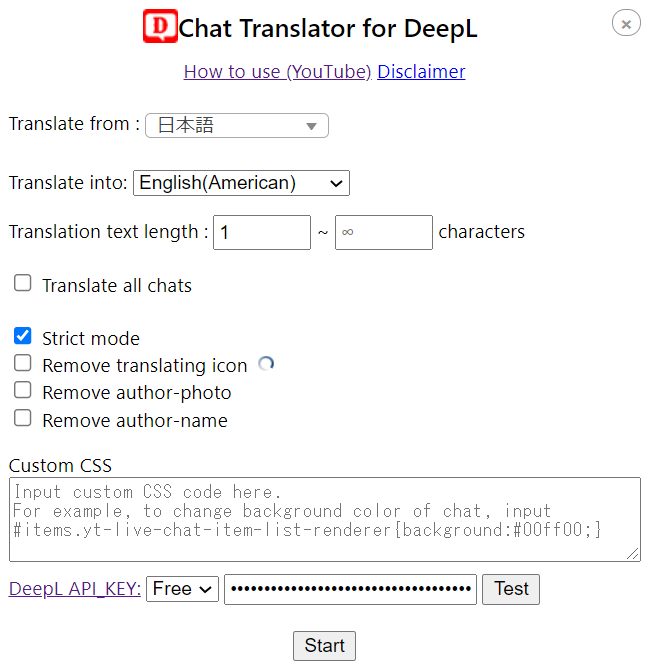
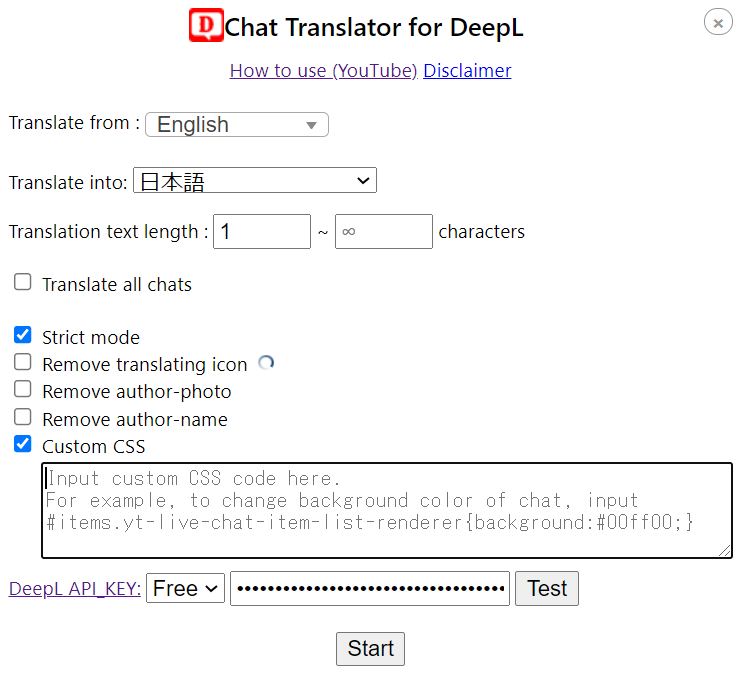
update: CSSをsyncでなくlocalに保存

diff --git a/options.js b/options.js
@@ -81,6 +81,13 @@ function save_options(input) {
       } else {
         maxlen = document.querySelector("#maxlength").value;
       }
+      //save CSS data on local storage
+      chrome.storage.local.set(
+        {
+          addedCSS: document.querySelector("#addedCSS").value,
+        },
+        function () {}
+      );
       chrome.storage.sync.set(
         {
           target: document.querySelector("#target").value,
@@ -92,9 +99,9 @@ function save_options(input) {
           rmAuthorPhotoFlag:
             document.querySelector("#rmAuthorPhotoFlag").checked,
           rmAuthorNameFlag: document.querySelector("#rmAuthorNameFlag").checked,
-          addedCSS: document.querySelector("#addedCSS").value,
           minlength: minlen,
           maxlength: maxlen,
+          addedCSSFlag: document.querySelector("#addedCSSFlag").checked,
           freeflag: document.querySelector("#freeflag").value,
         },
         function () {
@@ -121,6 +128,7 @@ function save_options(input) {
                   addedCSS: document.querySelector("#addedCSS").value,
                   minlength: minlen,
                   maxlength: maxlen,
+                  addedCSSFlag: document.querySelector("#addedCSSFlag").checked,
                   freeflag: document.querySelector("#freeflag").value,
                 },
                 function (res) {
@@ -144,6 +152,15 @@ function save_options(input) {
 
 function restore_options() {
   chrome.tabs.query({ active: true, currentWindow: true }, function (tabs) {
+    // CSS data is saved on  local storage
+    chrome.storage.local.get(
+      {
+        addedCSS: "",
+      },
+      function (localItems) {
+        document.querySelector("#addedCSS").value = localItems.addedCSS;
+      }
+    );
     chrome.storage.sync.get(
       {
         target: "JA",
@@ -154,9 +171,9 @@ function restore_options() {
         rmLoadingFlag: false,
         rmAuthorPhotoFlag: false,
         rmAuthorNameFlag: false,
-        addedCSS: "",
         minlength: 1,
         maxlength: "",
+        addedCSSFlag: true,
         freeflag: "Free",
       },
       function (items) {
@@ -214,9 +231,10 @@ function restore_options() {
               items.rmAuthorPhotoFlag;
             document.querySelector("#rmAuthorNameFlag").checked =
               items.rmAuthorNameFlag;
-            document.querySelector("#addedCSS").value = items.addedCSS;
             document.querySelector("#minlength").value = items.minlength;
             document.querySelector("#maxlength").value = items.maxlength;
+            document.querySelector("#addedCSSFlag").checked =
+              items.addedCSSFlag;
             document.querySelector("#freeflag").value = items.freeflag;
             save_options(true);
           }
@@ -395,7 +413,4 @@ document.querySelector("#save").addEventListener("click", function () {
 document.querySelector("#apitest").addEventListener("click", api_test);
 $(function () {
   $("#translang").multipleSelect();
-});
-document.querySelector("#close").addEventListener("click", function () {
-  window.close();
 });

diff --git a/popup.js b/popup.js
@@ -81,6 +81,13 @@ function save_options(input) {
       } else {
         maxlen = document.querySelector("#maxlength").value;
       }
+      //CSS data is saved on local storage
+      chrome.storage.local.set(
+        {
+          addedCSS: document.querySelector("#addedCSS").value,
+        },
+        function () {}
+      );
       chrome.storage.sync.set(
         {
           target: document.querySelector("#target").value,
@@ -92,9 +99,9 @@ function save_options(input) {
           rmAuthorPhotoFlag:
             document.querySelector("#rmAuthorPhotoFlag").checked,
           rmAuthorNameFlag: document.querySelector("#rmAuthorNameFlag").checked,
-          addedCSS: document.querySelector("#addedCSS").value,
           minlength: minlen,
           maxlength: maxlen,
+          addedCSSFlag: document.querySelector("#addedCSSFlag").checked,
           freeflag: document.querySelector("#freeflag").value,
         },
         function () {
@@ -121,6 +128,7 @@ function save_options(input) {
                   addedCSS: document.querySelector("#addedCSS").value,
                   minlength: minlen,
                   maxlength: maxlen,
+                  addedCSSFlag: document.querySelector("#addedCSSFlag").checked,
                   freeflag: document.querySelector("#freeflag").value,
                 },
                 function (res) {
@@ -171,6 +179,15 @@ function restore_options() {
         if (res_translatingflag) {
           document.querySelector("#save").textContent = "Stop";
         }
+        // CSS data is saved on  local storage
+        chrome.storage.local.get(
+          {
+            addedCSS: "",
+          },
+          function (localItems) {
+            document.querySelector("#addedCSS").value = localItems.addedCSS;
+          }
+        );
         chrome.storage.sync.get(
           {
             target: "JA",
@@ -181,9 +198,9 @@ function restore_options() {
             rmLoadingFlag: false,
             rmAuthorPhotoFlag: false,
             rmAuthorNameFlag: false,
-            addedCSS: "",
             minlength: 1,
             maxlength: "",
+            addedCSSFlag: true,
             freeflag: "Free",
           },
           function (items) {
@@ -244,9 +261,10 @@ function restore_options() {
                   items.rmAuthorPhotoFlag;
                 document.querySelector("#rmAuthorNameFlag").checked =
                   items.rmAuthorNameFlag;
-                document.querySelector("#addedCSS").value = items.addedCSS;
                 document.querySelector("#minlength").value = items.minlength;
                 document.querySelector("#maxlength").value = items.maxlength;
+                document.querySelector("#addedCSSFlag").checked =
+                  items.addedCSSFlag;
                 document.querySelector("#freeflag").value = items.freeflag;
                 save_options(true);
               }

diff --git a/options.html b/options.html
@@ -8,8 +8,6 @@
     </head>
 
     <body style="min-width: 330px;">
-        <div id="close" title="close window">×</div>    
-        <div id="title"><img src="../icon24.png"/>Chat Translator for DeepL</div>
         <div style="text-align: center;">
             <a href="https://www.youtube.com/watch?v=8nhYxoAYdio" target="_blank">How to use (YouTube)</a>
             <a href="https://github.com/T3aHat/Chat_Translator_for_DeepL#%E5%85%8D%E8%B2%AC%E4%BA%8B%E9%A0%85disclaimer" target="_blank">Disclaimer</a>
@@ -92,7 +90,7 @@
             <div ><label><input type="checkbox" id="rmLoadingFlag"> Remove translating icon <img src="../loading.gif" width="12" height="12" style="margin-left:3px"/></label></div>            
             <div ><label><input type="checkbox" id="rmAuthorPhotoFlag"> Remove author-photo</label></div>
             <div ><label><input type="checkbox" id="rmAuthorNameFlag"> Remove author-name</label></div>
-            <p id="addedCSStext">Custom CSS</p>
+            <div ><label><input type="checkbox" id="addedCSSFlag"> Custom CSS</label></div>
             <textarea id="addedCSS" rows="4" cols="60" placeholder="Input custom CSS code here.&#13For example, to change background color of chat, input&#13#items.yt-live-chat-item-list-renderer{background:#00ff00;}"></textarea>    
         </span>
         

diff --git a/popup.html b/popup.html
@@ -92,7 +92,7 @@
             <div ><label><input type="checkbox" id="rmLoadingFlag"> Remove translating icon <img src="../loading.gif" width="12" height="12" style="margin-left:3px"/></label></div>            
             <div ><label><input type="checkbox" id="rmAuthorPhotoFlag"> Remove author-photo</label></div>
             <div ><label><input type="checkbox" id="rmAuthorNameFlag"> Remove author-name</label></div>
-            <p id="addedCSStext">Custom CSS</p>
+            <div ><label><input type="checkbox" id="addedCSSFlag"> Custom CSS</label></div>
             <textarea id="addedCSS" rows="4" cols="60" placeholder="Input custom CSS code here.&#13For example, to change background color of chat, input&#13#items.yt-live-chat-item-list-renderer{background:#00ff00;}"></textarea>    
         </span>
         

diff --git a/chat-translator.js b/chat-translator.js
@@ -53,11 +53,17 @@ function change_settings(request) {
   if (request.rmAuthorNameFlag) {
     addedCSS += "\n#author-name.yt-live-chat-author-chip{display:none;}";
   }
-  a = document.createElement("style");
-  a.type = "text/css";
-  a.id = "chatransAddedCSS";
-  a.textContent = addedCSS;
-  document.head.appendChild(a);
+  if (request.addedCSSFlag) {
+    a = document.createElement("style");
+    a.type = "text/css";
+    a.id = "chatransAddedCSS";
+    a.textContent = addedCSS;
+    document.head.appendChild(a);
+  } else {
+    try {
+      document.querySelector("#chatransAddedCSS").remove;
+    } catch {}
+  }
   if (!request.input) {
     if (translatingflag) {
       disconnectObserver();

diff --git a/style.css b/style.css
@@ -38,7 +38,9 @@ label {
 #addedCSS {
   resize: vertical;
   max-width: 100%;
+  margin-top: 3px;
   margin-bottom: 5px;
+  margin-left: 1.25rem;
 }
 #minlength,
 #maxlength {
@@ -49,9 +51,6 @@ label {
 .ms-choice,
 #target {
   height: 1rem;
-}
-#addedCSStext {
-  margin-bottom: 0;
 }
 #apitestm {
   text-align: center;

diff --git a/background.js b/background.js
@@ -10,6 +10,7 @@ chrome.runtime.onInstalled.addListener(function (details) {
       rmLoadingFlag: false,
       rmAuthorPhotoFlag: false,
       rmAuthorNameFlag: false,
+      addedCSSFlag: true,
       addedCSS: "",
       minlength: 1,
       maxlength: "",

diff --git a/README.md b/README.md
@@ -4,7 +4,7 @@
 
 # Install from Chrome Web Store
 
-https://chrome.google.com/webstore/detail/chat-translator-for-deepl/fbmkdedikbcbkkeaofpenfncppepfnlo
+<a href="https://chrome.google.com/webstore/detail/chat-translator-for-deepl/fbmkdedikbcbkkeaofpenfncppepfnlo" target="_blank" rel="noopener noreferrer"><img src="https://storage.googleapis.com/chrome-gcs-uploader.appspot.com/image/WlD8wC6g8khYWPJUsQceQkhXSlv1/HRs9MPufa1J1h5glNhut.png" alt="ChromeWebStore" ></a>
 
 # Install from GitHub
 
@@ -33,7 +33,7 @@ To use this extension, please sign in to Chrome and sync turns on. If you do not
 
 ## Translate from
 
-Chats in the language you select here will be translated.
+- Chats in the language you select here will be translated.
 
 ## Translate into
 
@@ -67,12 +67,11 @@ Chats in the language you select here will be translated.
 
 - Default: `false`
 - When selected, hide the user icon or user name in the chat field.
-- i.e. `#author-photo.yt-live-chat-text-message-renderer{display:none;}` and `#author-name.yt-live-chat-author-chip{display:none;}`
+  - i.e. `#author-photo.yt-live-chat-text-message-renderer{display:none;}` and `#author-name.yt-live-chat-author-chip{display:none;}` are applied.
 
 ## Custom CSS
 
-- By writing CSS here, you can freely customize the display of the chat or comments field.
-- If the CSS code is very long, the chrome extension will not be able to save the CSS correctly due to `chrome.storage.sync`'s capacity issue. So, you need to solve this problem by applying CSS every time.
+- By writing CSS here, you can freely customize the display of the chat field.
 
 ## DeepL API KEY
 
